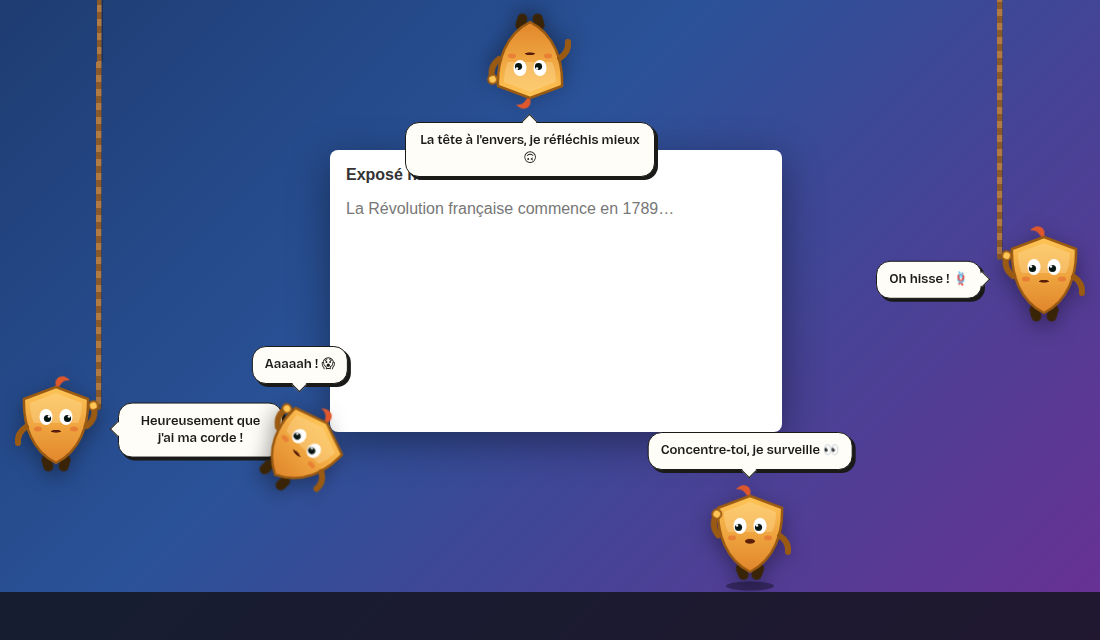
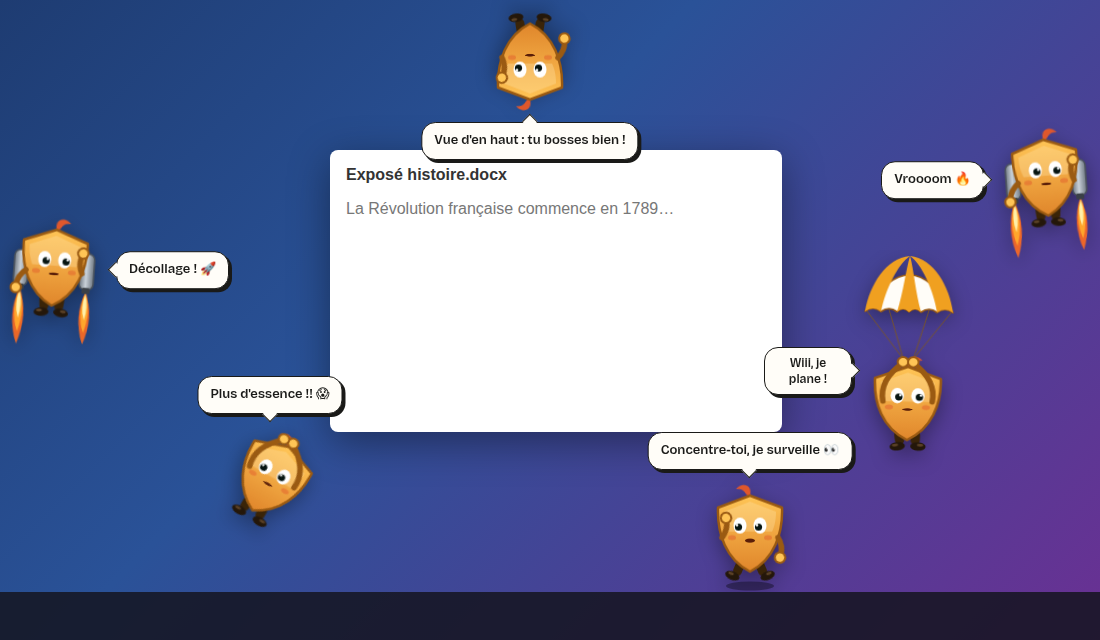
Mini Gardien : mains et pieds, jetpack sur les murs, parachute pour redescendre
- Nouveau dessin : bras avec mains, jambes avec chaussures, qui bougent en marchant.
- Murs : il monte en jetpack (flammes animées, plus petites en descendant) au lieu de la corde.
- Parachute ambre et blanc : depuis le plafond, quand il lâche prise ou quand on le lance haut ;
  descente douce en se balançant, voile repliée et pose stylée à l'atterrissage.

Claude-Session: https://claude.ai/code/session_018L5Jf4hGnPYohaEqRkqxX8

diff --git a/ui/app.js b/ui/app.js
@@ -649,20 +649,46 @@ const BONHOMME = `
 <svg viewBox="0 0 100 110" aria-hidden="true">
   <defs>
     <linearGradient id="bc" x1="0" y1="0" x2="0" y2="1"><stop offset="0" stop-color="#FFC556"/><stop offset="1" stop-color="#E0862B"/></linearGradient>
+    <linearGradient id="tank" x1="0" y1="0" x2="1" y2="0"><stop offset="0" stop-color="#6E7781"/><stop offset=".45" stop-color="#C9D1D9"/><stop offset="1" stop-color="#6E7781"/></linearGradient>
   </defs>
   <ellipse class="ombre" cx="50" cy="104" rx="24" ry="4.5" fill="rgba(0,0,0,.35)"/>
+  <!-- parachute (ambre et blanc), tenu à deux mains -->
+  <g class="para">
+    <g stroke="#7A5524" stroke-width=".9"><line x1="8" y1="-38" x2="45" y2="9"/><line x1="30" y1="-40" x2="45" y2="9"/><line x1="70" y1="-40" x2="55" y2="9"/><line x1="92" y1="-38" x2="55" y2="9"/></g>
+    <path d="M6 -38 Q50 -112 94 -38 Q86 -44 78 -38 Q70 -44 62 -38 Q56 -44 50 -38 Q44 -44 38 -38 Q30 -44 22 -38 Q14 -44 6 -38Z" fill="#FFFDF8" stroke="#9A5A12" stroke-width="1.6" stroke-linejoin="round"/>
+    <path d="M50 -94 C26 -92 10 -64 6 -38 Q14 -44 22 -38 C26 -60 38 -86 50 -94Z" fill="#F0A020"/>
+    <path d="M50 -94 C46 -80 44 -58 38 -38 Q44 -44 50 -38 Q56 -44 62 -38 C56 -58 54 -80 50 -94Z" fill="#F0A020"/>
+    <path d="M50 -94 C74 -92 90 -64 94 -38 Q86 -44 78 -38 C74 -60 62 -86 50 -94Z" fill="#F0A020"/>
+  </g>
   <g class="corps">
-    <rect class="jambe j1" x="34" y="82" width="10" height="17" rx="5" fill="#3A2408"/>
-    <rect class="jambe j2" x="56" y="82" width="10" height="17" rx="5" fill="#3A2408"/>
+    <!-- jetpack (murs) : deux réservoirs derrière, flammes dessous -->
+    <g class="jet">
+      <g class="flammes">
+        <g class="fl"><path d="M17 74 Q7 96 17 120 Q27 96 17 74Z" fill="#FF6A1F" opacity=".9"/><path d="M17 75 Q10 92 17 110 Q24 92 17 75Z" fill="#FFA62B"/><path d="M17 76 Q13 88 17 99 Q21 88 17 76Z" fill="#FFF0A8"/></g>
+        <g class="fl"><path d="M83 74 Q73 96 83 120 Q93 96 83 74Z" fill="#FF6A1F" opacity=".9"/><path d="M83 75 Q76 92 83 110 Q90 92 83 75Z" fill="#FFA62B"/><path d="M83 76 Q79 88 83 99 Q87 88 83 76Z" fill="#FFF0A8"/></g>
+      </g>
+      <rect x="10" y="36" width="14" height="36" rx="6" fill="url(#tank)" stroke="#4A525B" stroke-width="1.5"/>
+      <rect x="76" y="36" width="14" height="36" rx="6" fill="url(#tank)" stroke="#4A525B" stroke-width="1.5"/>
+      <rect x="13" y="70" width="8" height="6" rx="1.5" fill="#3A4047"/><rect x="79" y="70" width="8" height="6" rx="1.5" fill="#3A4047"/>
+    </g>
+    <!-- jambes avec pieds (chaussures) -->
+    <g class="jambe jg"><rect x="37" y="80" width="9" height="15" rx="4.5" fill="#3A2408"/><ellipse cx="38.5" cy="96.5" rx="7.5" ry="4.3" fill="#24170A"/><ellipse cx="36.5" cy="95" rx="3" ry="1.4" fill="#5B4126"/></g>
+    <g class="jambe jd"><rect x="54" y="80" width="9" height="15" rx="4.5" fill="#3A2408"/><ellipse cx="61.5" cy="96.5" rx="7.5" ry="4.3" fill="#24170A"/><ellipse cx="63.5" cy="95" rx="3" ry="1.4" fill="#5B4126"/></g>
     <path class="plume" d="M50 16 C 44 4, 56 0, 62 6 C 56 6, 54 10, 52 16 Z" fill="#E0572B"/>
     <path d="M50 14 L82 26 C 83 52, 74 78, 50 90 C 26 78, 17 52, 18 26 Z" fill="url(#bc)" stroke="#9A5A12" stroke-width="2.5" stroke-linejoin="round"/>
     <path d="M50 20 L76 30 C 76 40, 74 46, 72 50 L 28 50 C 26 46, 24 40, 24 30 Z" fill="#FFE2A6" opacity=".35"/>
-    <g class="bras"><path d="M80 52 q 12 -4 13 -16" stroke="#9A5A12" stroke-width="6" stroke-linecap="round" fill="none"/><circle cx="93" cy="35" r="4.5" fill="#FFC556" stroke="#9A5A12" stroke-width="2"/></g>
-    <path d="M20 54 q -9 6 -8 16" stroke="#9A5A12" stroke-width="6" stroke-linecap="round" fill="none"/>
     <g class="oeil"><ellipse cx="40" cy="44" rx="6.5" ry="8" fill="#fff"/><circle cx="41.5" cy="45.5" r="3.6" fill="#071512"/><circle cx="43" cy="43.5" r="1.3" fill="#fff"/></g>
     <g class="oeil"><ellipse cx="60" cy="44" rx="6.5" ry="8" fill="#fff"/><circle cx="61.5" cy="45.5" r="3.6" fill="#071512"/><circle cx="63" cy="43.5" r="1.3" fill="#fff"/></g>
     <ellipse cx="32" cy="56" rx="4" ry="2.5" fill="#E0572B" opacity=".45"/><ellipse cx="68" cy="56" rx="4" ry="2.5" fill="#E0572B" opacity=".45"/>
     <ellipse class="bouche" cx="50" cy="60" rx="5" ry="3" fill="#5A1E08"/>
+    <!-- bras le long du corps, avec mains -->
+    <g class="bras bg"><path d="M22 56 Q14 62 13 72" stroke="#9A5A12" stroke-width="5.5" stroke-linecap="round" fill="none"/><circle cx="13" cy="74" r="5.2" fill="#FFC556" stroke="#9A5A12" stroke-width="2"/></g>
+    <g class="bras bd"><path d="M78 56 Q86 62 87 72" stroke="#9A5A12" stroke-width="5.5" stroke-linecap="round" fill="none"/><circle cx="87" cy="74" r="5.2" fill="#FFC556" stroke="#9A5A12" stroke-width="2"/></g>
+    <!-- bras levés (parachute, chute, atterrissage) -->
+    <g class="haut">
+      <path d="M26 50 Q22 28 45 10" stroke="#9A5A12" stroke-width="5.5" stroke-linecap="round" fill="none"/><circle cx="45" cy="9" r="5.2" fill="#FFC556" stroke="#9A5A12" stroke-width="2"/>
+      <path d="M74 50 Q78 28 55 10" stroke="#9A5A12" stroke-width="5.5" stroke-linecap="round" fill="none"/><circle cx="55" cy="9" r="5.2" fill="#FFC556" stroke="#9A5A12" stroke-width="2"/>
+    </g>
   </g>
 </svg>`;
 
@@ -688,7 +714,7 @@ async function initCompagnon() {
   document.documentElement.style.colorScheme = "normal";
   document.documentElement.style.background = "transparent";
   const st = $("#stage"); st.hidden = false;
-  st.innerHTML = `<div class="corde"></div><div class="bulle-pos"><div class="bulle" id="bulle"></div></div>
+  st.innerHTML = `<div class="bulle-pos"><div class="bulle" id="bulle"></div></div>
     <div class="perso"><div class="bonhomme" id="bh" title="Mini Gardien">${BONHOMME}</div></div>`;
   st.className = "stage pose-sol";
   const bh = $("#bh"), bulle = $("#bulle");
@@ -707,17 +733,28 @@ async function initCompagnon() {
 
   // pose(mode, sens, arret) : appelé par Python quand le Gardien change de bord, tombe ou se fait attraper
   let posePrec = "sol";
-  const pose = (mode, sens = -1, arret = false) => {
+  const pose = (mode, sens = -1, arret = false, atterri = false) => {
     st.className = "stage pose-" + mode;
-    const marche = !arret && ["sol", "plafond", "mur_g", "mur_d"].includes(mode);
-    bh.classList.toggle("marche", marche);
-    // sur les murs il regarde vers l'écran, la main levée tient la corde
-    bh.classList.toggle("gauche", mode === "mur_d" ? true : mode === "mur_g" ? false : mode === "plafond" ? sens > 0 : sens < 0);
+    const mur = mode === "mur_g" || mode === "mur_d";
+    bh.classList.toggle("marche", !arret && (mode === "sol" || mode === "plafond"));
+    bh.classList.toggle("jet", mur);                       // jetpack sur les murs
+    bh.classList.toggle("descend", mur && sens > 0);        // petites flammes en descendant
+    bh.classList.toggle("vole", mur && !arret);
+    bh.classList.toggle("para", mode === "parachute");
+    bh.classList.toggle("tombe", mode === "chute" || mode === "attrape");
+    bh.classList.toggle("gauche", mur ? false : mode === "plafond" ? sens > 0 : sens < 0);
+    if (atterri) {  // il replie le parachute, puis petite pose stylée
+      bh.classList.add("para", "replie");
+      setTimeout(() => { bh.classList.remove("para", "replie"); bh.classList.add("atterrit"); }, 550);
+      setTimeout(() => bh.classList.remove("atterrit"), 2200);
+    }
     if (mode !== posePrec) {
-      if (mode === "chute") dire(posePrec === "mur_g" || posePrec === "mur_d" ? pick(["La corde a lâché ! 😱", "Aaaaah, ma corde !!"]) : pick(["Aaaaah ! 😱", "Woooo ! 🪂", "Je glisse !!"]), 2500);
+      if (mode === "chute") dire(mur || posePrec === "mur_g" || posePrec === "mur_d" ? pick(["Plus d'essence !! 😱", "Panne de jetpack !"]) : pick(["Aaaaah ! 😱", "Woooo ! 🎢", "J'ai oublié mon parachute !!"]), 2500);
+      else if (mode === "parachute") dire(pick(["Hop, parachute ! 🪂", "Wiii, je plane !", "Vue magnifique d'ici !"]), 3000);
       else if (mode === "attrape") dire(pick(["Hé ! Pose-moi ! 😵", "Wheee ! 🎢", "Doucement ! J'ai le vertige !"]), 3000);
+      else if (atterri) dire(pick(["Atterrissage parfait 😎", "Et… posé ! 10/10 🏅", "Parachutiste d'élite 😎"]), 3500);
       else if (posePrec === "chute" && mode === "sol") dire(pick(["Ouf… ça va 😅", "Atterrissage parfait. Enfin presque.", "Même pas mal !"]), 3500);
-      else if ((mode === "mur_g" || mode === "mur_d") && Math.random() < 0.3) dire(pick(["Je grimpe ! 🧗", "Heureusement que j'ai ma corde !", "Oh hisse ! 🪢"]), 3000);
+      else if (mur && Math.random() < 0.35) dire(pick(["Décollage ! 🚀", "Jetpack activé !", "Vroooom 🔥"]), 3000);
       else if (mode === "plafond" && Math.random() < 0.4) dire(pick(["La tête à l'envers, je réfléchis mieux 🙃", "Vue d'en haut : tu bosses bien !"]), 3500);
     }
     posePrec = mode;
@@ -725,7 +762,7 @@ async function initCompagnon() {
   window.compagnon = { pose, dire, mode: (marche, sens) => pose("sol", sens, !marche) };
 
   bh.addEventListener("mousedown", (e) => { if (e.button === 0) api.attraper(); });
-  bh.addEventListener("click", () => { if (posePrec !== "chute") dire(pick(PHRASES.clic), 4000, "coucou"); });
+  bh.addEventListener("click", () => { if (posePrec !== "chute" && posePrec !== "parachute") dire(pick(PHRASES.clic), 4000, "coucou"); });
   bh.addEventListener("dblclick", () => api.ouvrir());
 
   const tour = async () => {

diff --git a/ui/style.css b/ui/style.css
@@ -218,15 +218,11 @@ body.compagnon .stage{position:relative;z-index:2;width:100vw;height:100vh;displ
 .perso{position:absolute;width:100px;height:110px}
 .pose-sol .perso{left:calc(50% - 50px);bottom:0}
 .pose-plafond .perso{left:calc(50% - 50px);top:0;transform:rotate(180deg)}
-/* sur les murs : debout contre le bord, il grimpe à une corde qui descend du haut de l'écran.
-   La fenêtre est alors très haute (main.py) et le personnage reste en bas : centre à 120 px du bas. */
-.pose-mur_g .perso{left:6px;bottom:65px}
-.pose-mur_d .perso{right:6px;bottom:65px}
-.corde{display:none;position:absolute;top:0;bottom:140px;width:5px;border-radius:3px;transform-origin:50% 0;
-  background:repeating-linear-gradient(180deg,#8B5A2B 0 7px,#B07A42 7px 14px);box-shadow:1px 0 0 rgba(0,0,0,.25);animation:corde 2.4s ease-in-out infinite alternate}
-.pose-mur_g .corde{display:block;left:97px}
-.pose-mur_d .corde{display:block;right:97px}
-@keyframes corde{from{transform:rotate(-.25deg)}to{transform:rotate(.25deg)}}
+/* sur les murs : debout le long du bord, il monte (ou descend) en jetpack */
+.pose-mur_g .perso{left:4px;top:calc(50% - 55px);transform:rotate(4deg)}
+.pose-mur_d .perso{right:4px;top:calc(50% - 55px);transform:rotate(-4deg)}
+/* en parachute : personnage en bas de la fenêtre, la voile au-dessus (main.py place la fenêtre pareil) */
+.pose-parachute .perso{left:calc(50% - 50px);bottom:30px}
 .pose-chute .perso,.pose-attrape .perso{left:calc(50% - 50px);top:calc(50% - 55px)}
 .pose-attrape .perso{animation:balance .9s ease-in-out infinite alternate;transform-origin:50% 0}
 .pose-chute .perso{animation:tourne 1.2s linear infinite}
@@ -235,8 +231,10 @@ body.compagnon .stage{position:relative;z-index:2;width:100vw;height:100vh;displ
 .bulle-pos{position:absolute;width:max-content;max-width:250px}
 .pose-sol .bulle-pos{left:50%;bottom:122px;translate:-50% 0}
 .pose-plafond .bulle-pos{left:50%;top:122px;translate:-50% 0}
-.pose-mur_g .bulle-pos{left:118px;bottom:120px;translate:0 50%;max-width:165px}
-.pose-mur_d .bulle-pos{right:118px;bottom:120px;translate:0 50%;max-width:165px}
+.pose-mur_g .bulle-pos{left:116px;top:50%;translate:0 -50%;max-width:165px}
+.pose-mur_d .bulle-pos{right:116px;top:50%;translate:0 -50%;max-width:165px}
+.pose-parachute .bulle-pos{left:4px;bottom:95px;max-width:calc(50% - 62px)}
+.pose-parachute .bulle{font-size:12px;padding:7px 9px}
 .pose-chute .bulle-pos,.pose-attrape .bulle-pos{left:50%;bottom:calc(50% + 66px);translate:-50% 0}
 .bulle{position:relative;margin:0;padding:9px 12px;border-radius:14px;
   background:#FFFDF8;border:1.5px solid #1A1A18;color:#1A1A18;
@@ -247,31 +245,63 @@ body.compagnon .stage{position:relative;z-index:2;width:100vw;height:100vh;displ
   border-right:1.5px solid #1A1A18;border-bottom:1.5px solid #1A1A18;transform:rotate(45deg)}
 .pose-plafond .bulle::after{bottom:auto;top:-7px;transform:rotate(225deg)}
 .pose-mur_g .bulle::after{left:-1px;top:50%;bottom:auto;margin:-6px 0 0 -6px;transform:rotate(135deg)}
-.pose-mur_d .bulle::after{left:auto;right:-7px;top:50%;bottom:auto;margin-top:-6px;transform:rotate(-45deg)}
+.pose-mur_d .bulle::after,.pose-parachute .bulle::after{left:auto;right:-7px;top:50%;bottom:auto;margin-top:-6px;transform:rotate(-45deg)}
 .bonhomme{width:100px;height:110px;cursor:grab;filter:drop-shadow(0 6px 10px rgba(0,0,0,.35))}
 .bonhomme svg{width:100%;height:100%;overflow:visible}
 .bonhomme .corps{transform-origin:50px 90px;animation:respire 3s ease-in-out infinite}
 .bonhomme.marche .corps{animation:sautille .36s ease-in-out infinite}
-.bonhomme.content .corps{animation:saute .5s cubic-bezier(.3,1.6,.5,1) 2}
+.bonhomme.content .corps,.bonhomme.atterrit .corps{animation:saute .5s cubic-bezier(.3,1.6,.5,1) 2}
 .bonhomme.gauche svg{transform:scaleX(-1)}
-.bonhomme .jambe{transform-box:fill-box;transform-origin:50% 0}
-.bonhomme.marche .j1{animation:pas .36s ease-in-out infinite}
-.bonhomme.marche .j2{animation:pas .36s ease-in-out infinite reverse}
+/* membres : on tourne autour de la hanche / de l'épaule (coordonnées du dessin) */
+.bonhomme .jambe,.bonhomme .bras{transform-box:view-box}
+.bonhomme .jg{transform-origin:41.5px 80px}.bonhomme .jd{transform-origin:58.5px 80px}
+.bonhomme .bg{transform-origin:22px 56px}.bonhomme .bd{transform-origin:78px 56px}
+.bonhomme.marche .jg{animation:pas .36s ease-in-out infinite alternate}
+.bonhomme.marche .jd{animation:pas .36s ease-in-out infinite alternate-reverse}
+.bonhomme.marche .bg{animation:balance-bras .36s ease-in-out infinite alternate-reverse}
+.bonhomme.marche .bd{animation:balance-bras .36s ease-in-out infinite alternate}
+.bonhomme.content .bd,.bonhomme.coucou .bd{animation:coucou .28s ease-in-out 6 alternate}
 .bonhomme .oeil{transform-box:fill-box;transform-origin:50% 50%;animation:cligne 4.5s infinite}
 .bonhomme .bouche{transform-box:fill-box;transform-origin:50% 0}
 .bonhomme.parle .bouche{animation:parle .22s ease-in-out infinite alternate}
-.bonhomme .bras{transform-box:fill-box;transform-origin:20% 90%}
-.bonhomme.content .bras,.bonhomme.coucou .bras{animation:coucou .3s ease-in-out 6 alternate}
 .bonhomme .plume{transform-box:fill-box;transform-origin:50% 100%;animation:plume 1.6s ease-in-out infinite alternate}
 .ombre{transform-origin:50% 50%;animation:ombre 3s ease-in-out infinite}
 .bonhomme.marche .ombre{animation:none}
 @keyframes respire{50%{transform:scaleY(.96) scaleX(1.03)}}
 @keyframes sautille{50%{transform:translateY(-4px)}}
 @keyframes saute{40%{transform:translateY(-22px) scale(1.04,.96)}}
-@keyframes pas{0%{transform:rotate(22deg)}100%{transform:rotate(-22deg)}}
+@keyframes pas{from{transform:rotate(24deg)}to{transform:rotate(-24deg)}}
+@keyframes balance-bras{from{transform:rotate(22deg)}to{transform:rotate(-22deg)}}
 @keyframes cligne{0%,94%,100%{transform:scaleY(1)}97%{transform:scaleY(.1)}}
 @keyframes parle{from{transform:scaleY(.4)}to{transform:scaleY(1.4)}}
-@keyframes coucou{from{transform:rotate(0)}to{transform:rotate(-40deg)}}
+@keyframes coucou{from{transform:rotate(-120deg)}to{transform:rotate(-165deg)}}
 @keyframes plume{to{transform:rotate(12deg)}}
 @keyframes ombre{50%{transform:scaleX(.92)}}
-.pose-mur_g .ombre,.pose-mur_d .ombre,.pose-plafond .ombre,.pose-chute .ombre,.pose-attrape .ombre{display:none}
+
+/* jetpack */
+.bonhomme .jet,.bonhomme .para,.bonhomme .haut{display:none}
+.bonhomme.jet .jet{display:block}
+.bonhomme .fl{transform-box:fill-box;transform-origin:50% 0;animation:flamme .12s ease-in-out infinite alternate}
+.bonhomme .fl+.fl{animation-delay:-.06s}
+.bonhomme.descend .fl{animation-name:flamme-petite}
+.bonhomme.jet:not(.vole) .fl{animation-name:flamme-petite}
+@keyframes flamme{from{transform:scale(.85,.8)}to{transform:scale(1.1,1.25)}}
+@keyframes flamme-petite{from{transform:scale(.6,.35)}to{transform:scale(.75,.55)}}
+.bonhomme.vole .corps{animation:plane .5s ease-in-out infinite alternate}
+@keyframes plane{from{transform:translateY(-2px)}to{transform:translateY(2px)}}
+.bonhomme.jet .jg,.bonhomme.jet .jd{animation:pendouille 1s ease-in-out infinite alternate}
+.bonhomme.jet .jd{animation-delay:-.5s}
+@keyframes pendouille{from{transform:rotate(8deg)}to{transform:rotate(-8deg)}}
+
+/* parachute : se balance doucement, bras levés */
+.bonhomme.para .para,.bonhomme.para .haut,.bonhomme.tombe .haut,.bonhomme.atterrit .haut{display:block}
+.bonhomme.para .bras,.bonhomme.tombe .bras,.bonhomme.atterrit .bras{display:none}
+.bonhomme.para svg{transform-origin:50px -90px;animation:voile 2.4s ease-in-out infinite alternate}
+@keyframes voile{from{transform:rotate(-7deg)}to{transform:rotate(7deg)}}
+.bonhomme.para .jg,.bonhomme.para .jd{animation:pendouille 1.2s ease-in-out infinite alternate}
+.bonhomme.para .jd{animation-delay:-.6s}
+.bonhomme.replie .para{transform-box:view-box;transform-origin:50px 9px;animation:replie .55s ease-in forwards}
+@keyframes replie{to{transform:scale(.1,.05);opacity:0}}
+.bonhomme.tombe .haut{transform-box:view-box;transform-origin:50px 50px;animation:panique .14s linear infinite alternate}
+@keyframes panique{from{transform:rotate(-10deg)}to{transform:rotate(10deg)}}
+.pose-mur_g .ombre,.pose-mur_d .ombre,.pose-plafond .ombre,.pose-chute .ombre,.pose-attrape .ombre,.pose-parachute .ombre{display:none}

diff --git a/promenade.py b/promenade.py
@@ -5,6 +5,7 @@ Pur calcul (aucune fenêtre ici) : main.py appelle `pas()` toutes les 30 ms et p
 avec `position_fenetre()`. Coordonnées en pixels écran ; (cx, cy) = centre du personnage.
 """
 
+import math
 import random
 
 DEMI = 55  # demi-taille du personnage (pieds à DEMI px du centre)
@@ -12,7 +13,8 @@ VITESSE = 2.2  # px par pas en marchant / grimpant
 GRAVITE = 1.1
 REBOND = 0.45
 
-# modes : "sol", "mur_g", "mur_d", "plafond", "chute", "attrape"
+PARACHUTE_VY = 1.5  # px par pas : descente douce
+# modes : "sol", "mur_g", "mur_d", "plafond", "chute", "parachute", "attrape"
 
 
 class Promenade:
@@ -28,6 +30,9 @@ class Promenade:
         self.avant_attrape = None
         self.bouge_pendant_attrape = 0.0
         self.dernier_curseur = None
+        self.oubli = False  # il a « oublié » son parachute : chute libre jusqu'en bas
+        self.t = 0
+        self.atterri = False  # vient de se poser en parachute (pour la petite pose de l'interface)
 
     # ---------- utilitaires ----------
     def _poser(self, mode, sens=None):
@@ -46,16 +51,19 @@ class Promenade:
 
     @property
     def en_mouvement(self):
-        return self.mode in ("chute", "attrape") or self.pause <= 0
+        return self.mode in ("chute", "parachute", "attrape") or self.pause <= 0
 
     # ---------- un pas ----------
     def pas(self, curseur=None, bouton=False):
         """Avance d'un pas. Renvoie True si le mode ou le sens a changé (l'interface doit se mettre à jour)."""
         avant = (self.mode, self.sens, self.pause > 0)
+        self.atterri = False
         if self.mode == "attrape":
             self._attrape(curseur, bouton)
         elif self.mode == "chute":
             self._chute()
+        elif self.mode == "parachute":
+            self._parachute()
         else:
             self._marche()
         return avant != (self.mode, self.sens, self.pause > 0)
@@ -82,13 +90,17 @@ class Promenade:
                 # simple clic : il reste où il était
                 self.mode, self.sens, self.cx, self.cy = self.avant_attrape
             else:
-                self.mode = "chute"
+                self.mode, self.oubli = "chute", False
                 self.vx = max(-35, min(35, self.vx))
                 self.vy = max(-35, min(35, self.vy))
             self.avant_attrape = None
 
     def _chute(self):
         g, h, d, b = self.zone
+        # lancé (ou tombé) haut : il ouvre son parachute en redescendant
+        if not self.oubli and self.vy > 2 and self.cy < h + (b - h) * 0.55:
+            self.mode, self.vx = "parachute", self.vx * 0.3
+            return
         self.vy += GRAVITE
         self.vx *= 0.99
         self.cx += self.vx
@@ -108,6 +120,22 @@ class Promenade:
                 self.vx = self.vy = 0.0
                 self._poser("sol", self.r.choice([-1, 1]))
                 self.pause = 40
+                self.oubli = False
+
+    def _parachute(self):
+        """Descente douce en se balançant, puis atterrissage et petite pose."""
+        g, h, d, b = self.zone
+        self.t += 1
+        self.vy = PARACHUTE_VY
+        self.cx += math.sin(self.t / 22) * 1.3 + self.vx
+        self.vx *= 0.96
+        self.cy += self.vy
+        self.cx = max(g + DEMI, min(d - DEMI, self.cx))
+        if self.cy >= b - DEMI:
+            self.vx = self.vy = 0.0
+            self._poser("sol", self.r.choice([-1, 1]))
+            self.pause = 70
+            self.atterri = True
 
     def _marche(self):
         g, h, d, b = self.zone
@@ -119,7 +147,12 @@ class Promenade:
             self.pause = self.r.randint(60, 250)
             return
         if self.mode in ("mur_g", "mur_d", "plafond") and self.r.random() < 0.0012:
-            self.mode, self.vx, self.vy = "chute", 0.0, 0.0
+            # il lâche prise : parachute la plupart du temps… sauf quand il l'oublie
+            self.oubli = self.r.random() < 0.15
+            self.mode, self.vx, self.vy = ("chute" if self.oubli else "parachute"), 0.0, 0.0
+            return
+        if self.mode == "plafond" and self.r.random() < 0.003:
+            self.mode, self.vx, self.vy, self.oubli = "parachute", 0.0, 0.0, False  # il saute du plafond
             return
 
         if self.mode == "sol":
@@ -156,25 +189,17 @@ class Promenade:
             self.sens = sens_retour
 
     # ---------- placement de la fenêtre ----------
-    @property
-    def sur_un_mur(self):
-        return self.mode in ("mur_g", "mur_d")
-
-    def hauteur_mur(self, hauteur):
-        """Sur un mur, la fenêtre est très haute : la corde part au-dessus du haut de l'écran."""
-        g, h, d, b = self.zone
-        return (b - h) + hauteur + 120
-
     def position_fenetre(self, largeur, hauteur):
-        """Coin haut-gauche de la fenêtre pour que le personnage touche le bon bord de l'écran.
-        Sur un mur, `hauteur` est la grande hauteur et le personnage est à 120 px du bas de la fenêtre."""
+        """Coin haut-gauche de la fenêtre pour que le personnage touche le bon bord de l'écran."""
         g, h, d, b = self.zone
         if self.mode == "sol":
             return self.cx - largeur / 2, b - hauteur
         if self.mode == "plafond":
             return self.cx - largeur / 2, h
-        if self.mode == "mur_g":
-            return g, self.cy - (hauteur - 120)
+        if self.mode == "mur_g":  # jetpack le long du bord gauche
+            return g, self.cy - hauteur / 2
         if self.mode == "mur_d":
-            return d - largeur, self.cy - (hauteur - 120)
+            return d - largeur, self.cy - hauteur / 2
+        if self.mode == "parachute":  # personnage en bas de la fenêtre, la voile au-dessus
+            return self.cx - largeur / 2, self.cy - (hauteur - 85)
         return self.cx - largeur / 2, self.cy - hauteur / 2

diff --git a/main.py b/main.py
@@ -383,7 +383,6 @@ class Appli:
         self.promenade = Promenade(zone_de_travail())
         prochaine_zone = 0
         taille = None  # taille réelle de la fenêtre (peut être agrandie par la mise à l'échelle Windows)
-        hauteur_actuelle = None
         while not self.gardien.arret.is_set():
             fen = self.compagnon
             if not fen or not self.compagnon_visible or self.fumee:
@@ -397,17 +396,11 @@ class Appli:
                 curseur, bouton = souris() if p.mode == "attrape" else (None, False)
                 if taille is None:
                     taille = (fen.width or self.LARGEUR_C, fen.height or self.HAUTEUR_C)
-                change = p.pas(curseur, bouton)
-                haut = p.hauteur_mur(taille[1]) if p.sur_un_mur else taille[1]
-                if haut != hauteur_actuelle:  # la corde : fenêtre haute sur les murs, normale ailleurs
-                    fen.resize(int(taille[0]), int(haut))
-                    hauteur_actuelle = haut
-                    x, y = p.position_fenetre(taille[0], haut)
-                    fen.move(int(x), int(y))
-                if change:
-                    fen.evaluate_js(f"window.compagnon && compagnon.pose('{p.mode}', {p.sens}, {'true' if p.pause > 0 else 'false'})")
+                if p.pas(curseur, bouton):
+                    fen.evaluate_js(f"window.compagnon && compagnon.pose('{p.mode}', {p.sens}, "
+                                    f"{'true' if p.pause > 0 else 'false'}, {'true' if p.atterri else 'false'})")
                 if p.en_mouvement:
-                    x, y = p.position_fenetre(taille[0], haut)
+                    x, y = p.position_fenetre(*taille)
                     fen.move(int(x), int(y))
             except Exception:
                 pass

diff --git a/README.md b/README.md
@@ -32,8 +32,10 @@ toute seule (jamais pendant un Pomodoro). Le mini Gardien te l'annonce.
 - **L'interrogatoire** : une blague (moqueur, coach, robot ou dramatique), 3 questions, une carte de révision
   Dadotest (ou un calcul), 10 secondes de réflexion, puis le verdict : refusé, ou 5 à 15 minutes accordées.
 - **Pomodoro** : 25 min de travail / 5 min de pause (réglable).
-- **Mini Gardien** : il marche en bas de l'écran, **grimpe les bords avec sa corde**, **marche au plafond**, lâche prise et **tombe en
-  rebondissant**. Attrape-le à la souris et **lance-le**. Clique pour qu'il parle, double-clique pour ouvrir l'app.
+- **Mini Gardien** (avec des mains et des pieds) : il marche en bas de l'écran, **monte les bords en jetpack** 🚀,
+  **marche au plafond**, puis **redescend en parachute** 🪂 en se balançant (et atterrit avec style 😎). Parfois il oublie
+  son parachute… Attrape-le à la souris et **lance-le** : lancé haut, il ouvre son parachute. Clique pour qu'il parle,
+  double-clique pour ouvrir l'app.
 - **Stats** : minutes concentré et tentations résistées sur 14 jours, série de jours 🔥.
 - **Apps** : les jeux sont déjà cochés (Steam, Epic, Roblox, Minecraft, Riot, Valorant, Fortnite…), plus tous les jeux
   des dossiers Steam, Epic, Riot, Ubisoft. Ajoute une app par son nom ou en cliquant sur un programme ouvert.
